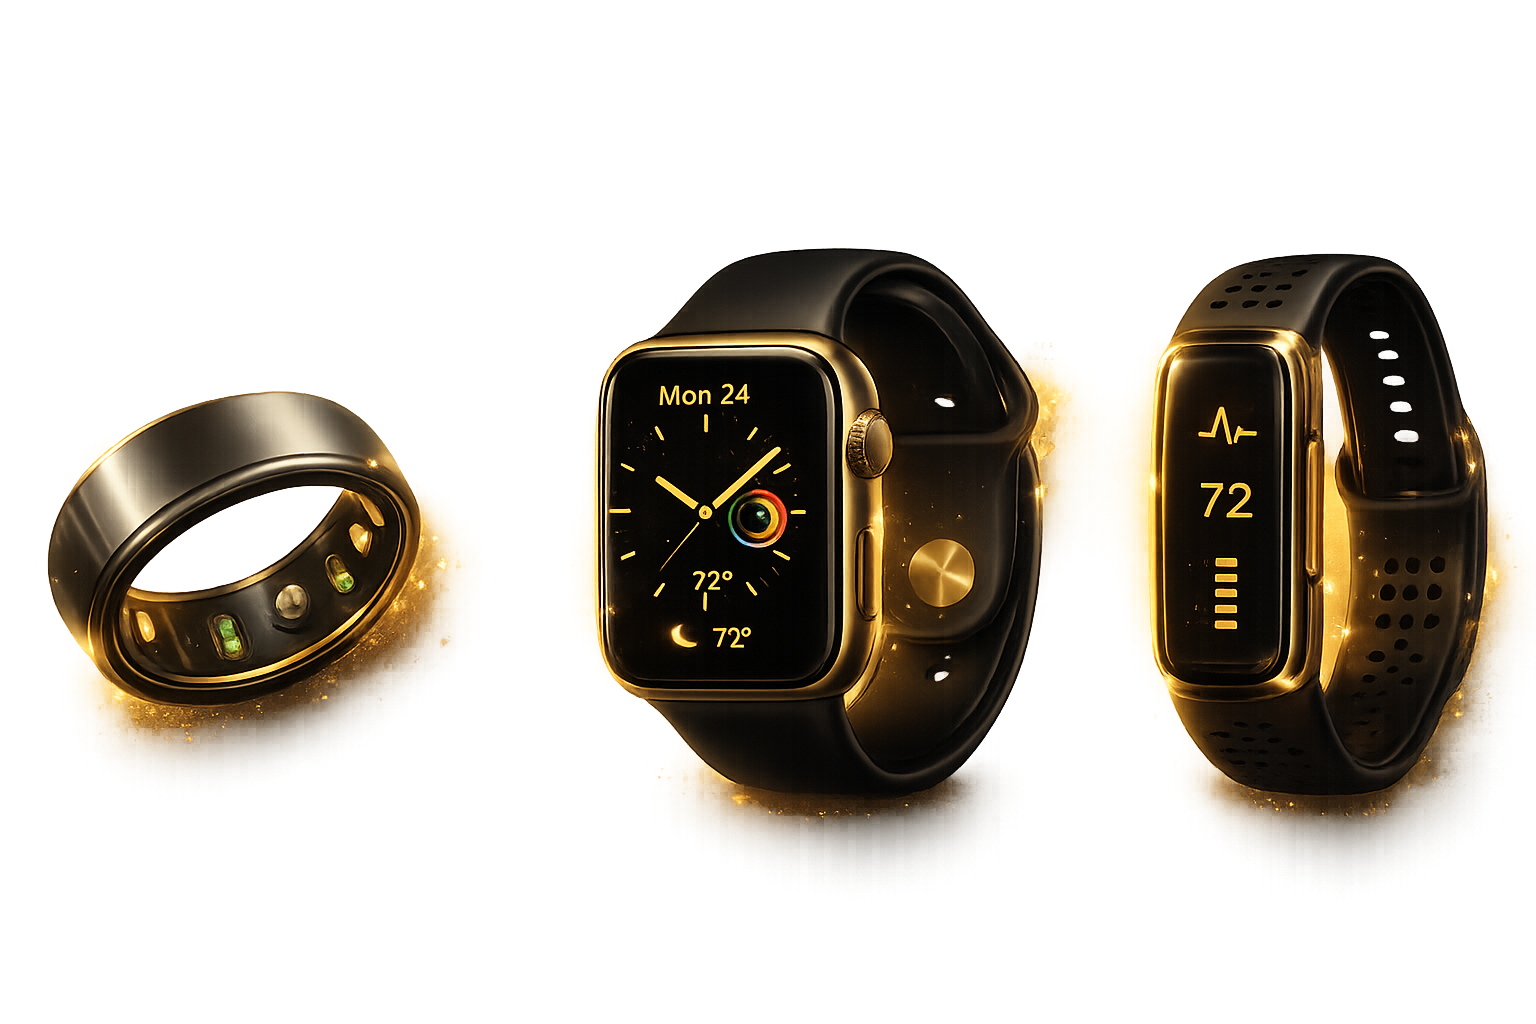
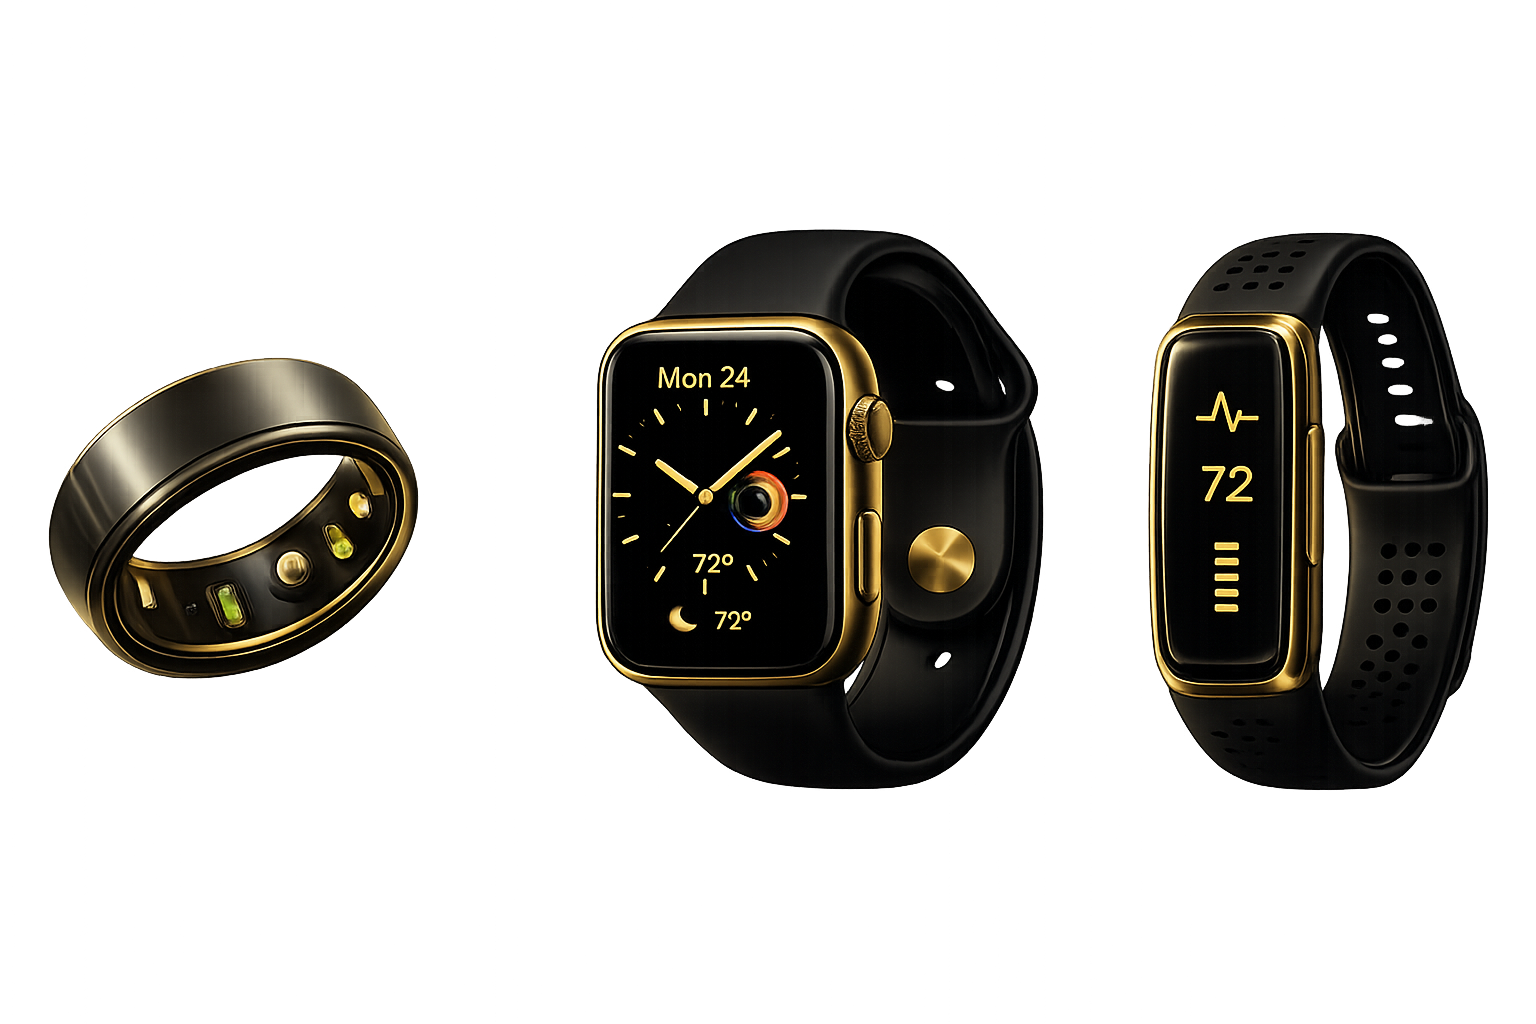
style(ip-landing): новый прозрачный auto.png; блоки VIO/PRO меньше; подзаголовки «Ручной ввод данных»/«Автоматический сбор данных»; «Без устройств» первым пунктом VIO

Changed region(s): [[0.375, 0.2188, 1.0, 0.8438], [0.0312, 0.3438, 0.3125, 0.75]]

diff --git a/interpreter/index.html b/interpreter/index.html
@@ -681,26 +681,29 @@ footer a:hover { color: var(--gold); }
 
 /* VIO vs PRO — выбор источника данных */
 .vp-section{padding:6px 0 52px;}
-.vp-stitle{text-align:center;font-family:'Oswald',sans-serif;font-weight:300;letter-spacing:3px;text-transform:uppercase;font-size:clamp(18px,3vw,24px);color:var(--t1);margin:0 0 30px;}
-.vp-grid{display:grid;grid-template-columns:1fr 1fr;gap:20px;max-width:920px;margin:0 auto;align-items:stretch;}
-.vp-card{display:flex;flex-direction:column;align-items:center;padding:28px 26px 30px;border-radius:22px;text-align:center;}
+.vp-stitle{text-align:center;font-family:'Oswald',sans-serif;font-weight:300;letter-spacing:3px;text-transform:uppercase;font-size:clamp(17px,2.6vw,22px);color:var(--t1);margin:0 0 24px;}
+.vp-grid{display:grid;grid-template-columns:1fr 1fr;gap:16px;max-width:800px;margin:0 auto;align-items:stretch;}
+.vp-card{display:flex;flex-direction:column;align-items:center;padding:22px 22px 24px;border-radius:20px;text-align:center;}
 .vp-vio{background:rgba(139,92,246,0.05);border:1px solid rgba(139,92,246,0.32);}
 .vp-pro{background:rgba(196,150,60,0.05);border:1px solid rgba(196,150,60,0.34);}
 .vp-eyebrow{font-family:'Oswald',sans-serif;font-size:12px;letter-spacing:4px;text-transform:uppercase;margin-bottom:6px;}
 .vp-vio .vp-eyebrow{color:#a78bfa;}
 .vp-pro .vp-eyebrow{color:var(--gold);}
-.vp-h{font-family:'Cormorant Garamond',serif;font-weight:600;font-size:clamp(24px,3.5vw,32px);line-height:1.15;margin:0 0 18px;}
+.vp-h{font-family:'Cormorant Garamond',serif;font-weight:600;font-size:clamp(21px,3vw,27px);line-height:1.15;margin:0 0 4px;}
 .vp-vio .vp-h{color:#a78bfa;}
 .vp-pro .vp-h{color:var(--gold-lt);}
-.vp-hero{height:170px;display:flex;align-items:center;justify-content:center;margin-bottom:22px;}
-.vp-hero img{max-height:170px;max-width:100%;object-fit:contain;}
+.vp-sub{font-size:12px;letter-spacing:.5px;margin-bottom:14px;opacity:.85;}
+.vp-vio .vp-sub{color:#a78bfa;}
+.vp-pro .vp-sub{color:var(--gold);}
+.vp-hero{height:120px;display:flex;align-items:center;justify-content:center;margin-bottom:16px;}
+.vp-hero img{max-height:120px;max-width:100%;object-fit:contain;}
 .vp-list{list-style:none;padding:0;margin:0;width:100%;text-align:left;}
-.vp-list li{display:flex;gap:13px;align-items:flex-start;padding:11px 0;font-size:15px;line-height:1.5;color:var(--t1);}
+.vp-list li{display:flex;gap:12px;align-items:flex-start;padding:8px 0;font-size:14px;line-height:1.45;color:var(--t1);}
 .vp-fi{flex-shrink:0;width:24px;height:24px;display:block;}
 .vp-fi svg{width:24px;height:24px;}
 .vp-vio .vp-fi{color:#a78bfa;}
 .vp-pro .vp-fi{color:var(--gold-lt);}
-@media(max-width:760px){.vp-grid{grid-template-columns:1fr;gap:14px;}.vp-hero{height:140px;}.vp-hero img{max-height:140px;}}
+@media(max-width:760px){.vp-grid{grid-template-columns:1fr;gap:12px;}.vp-hero{height:110px;}.vp-hero img{max-height:110px;}}
 </style>
 </head>
 <body>
@@ -807,8 +810,10 @@ footer a:hover { color: var(--gold); }
       <div class="vp-card vp-vio">
         <div class="vp-eyebrow">VIO</div>
         <h3 class="vp-h" data-t="vp_vio_h">По вашим ответам</h3>
+        <div class="vp-sub" data-t="vp_vio_sub">Ручной ввод данных</div>
         <div class="vp-hero"><img src="./images-in/vio.png" alt="VIO" loading="lazy"></div>
         <ul class="vp-list">
+          <li><span class="vp-fi"><svg viewBox="0 0 24 24" fill="none" stroke="currentColor" stroke-width="1.7" stroke-linecap="round"><circle cx="12" cy="12" r="9"/><line x1="5.6" y1="5.6" x2="18.4" y2="18.4"/></svg></span><span data-t="vp_vio_0">Без устройств</span></li>
           <li><span class="vp-fi"><svg viewBox="0 0 24 24" fill="none" stroke="currentColor" stroke-width="1.7" stroke-linecap="round"><circle cx="12" cy="12" r="9"/><path d="M9.3 9.4a2.7 2.7 0 1 1 3.6 2.6c-.7.3-1.2.9-1.2 1.8"/><circle cx="12" cy="17" r="0.6" fill="currentColor" stroke="none"/></svg></span><span data-t="vp_vio_1">Вы отвечаете на короткие вопросы.</span></li>
           <li><span class="vp-fi"><svg viewBox="0 0 24 24" fill="none" stroke="currentColor" stroke-width="1.7" stroke-linecap="round"><circle cx="12" cy="8" r="3.2"/><path d="M6 20c0-3.3 2.7-5.8 6-5.8s6 2.5 6 5.8"/></svg></span><span data-t="vp_vio_2">Система анализирует ваши ответы и текущее самочувствие.</span></li>
         </ul>
@@ -816,6 +821,7 @@ footer a:hover { color: var(--gold); }
       <div class="vp-card vp-pro">
         <div class="vp-eyebrow">PRO</div>
         <h3 class="vp-h" data-t="vp_pro_h">По данным устройств</h3>
+        <div class="vp-sub" data-t="vp_pro_sub">Автоматический сбор данных</div>
         <div class="vp-hero"><img src="./images-in/auto.png" alt="PRO" loading="lazy"></div>
         <ul class="vp-list">
           <li><span class="vp-fi"><svg viewBox="0 0 24 24" fill="none" stroke="currentColor" stroke-width="1.7" stroke-linecap="round" stroke-linejoin="round"><path d="M3.5 12a8.5 8.5 0 0 1 14.5-6M20.5 12a8.5 8.5 0 0 1-14.5 6"/><path d="M18 2.5V6h-3.5M6 21.5V18h3.5"/></svg></span><span data-t="vp_pro_1">Данные автоматически поступают с подключённых устройств</span></li>
@@ -1262,7 +1268,7 @@ const T = {
     hero_badge: 'Если данные есть — они должны приносить пользу',
     hero_h1: 'Мы не показываем данные — мы <em>объясняем</em>, что с вами происходит',
     hero_sub: 'И как адаптироваться к следующему этапу жизни. Показатели трекера и симптомы → понятное объяснение перемен и конкретные шаги.',
-    hero_oura: 'С трекером — данные подтянутся сами. Без трекера — короткие вопросы.',q_lead: 'Большинству не нужен график HRV за 180 дней — нужны ответы на три вопроса:',q1: 'Что со мной происходит?',q2: 'Почему это происходит?',q3: 'Что мне делать сегодня?',qa1_body: 'Ваш организм проходит период возрастной перестройки.<br><br>Изменения сна, энергии, настроения и восстановления могут быть связаны не только с нагрузкой или стрессом, но и с естественными гормональными изменениями, которые начинаются у женщин после 35+ и у мужчин после 40+.<br><br>Мы анализируем ваши данные и симптомы, чтобы понять, какие изменения происходят именно у вас.',qa2_body: 'Организм начинает работать по новым правилам.<br><br>То, что раньше проходило незаметно — недосып, стресс, перегрузка — теперь влияет сильнее.<br><br>Ваши показатели помогают определить, какие процессы сейчас оказывают наибольшее влияние:<br>— гормональная перестройка<br>— накопленный стресс<br>— нарушение восстановления<br>— изменения качества сна<br>— снижение адаптационных ресурсов организма<br><br>Мы ищем причины, а не просто показываем цифры.',qa3_body: 'Получите рекомендации, которые соответствуют вашему текущему состоянию.<br><br>Не универсальные советы из интернета, а персональные действия на основе ваших данных:<br>✓ как лучше восстановиться сегодня<br>✓ какая нагрузка будет полезна именно сейчас<br>✓ что поможет улучшить сон и энергию<br>✓ на что стоит обратить внимание в ближайшие дни<br><br>Маленькие правильные шаги помогают легче пройти период изменений и сохранить качество жизни.',qa_sell: 'Большинству людей не нужен график HRV за 180 дней.<br><br>Нужно понять, какие изменения происходят в организме, почему они происходят именно сейчас и как <span class="qa-hl">сохранить энергию, здоровье и качество жизни на следующем этапе</span>.',vp_pro_h: 'По данным устройств',vp_vio_h: 'По вашим ответам',vp_section_title: 'Выберите источник данных',vp_vio_1: 'Вы отвечаете на короткие вопросы.',vp_vio_2: 'Система анализирует ваши ответы и текущее самочувствие.',vp_vio_3: 'Короткие вопросы и самооценка',vp_pro_1: 'Данные автоматически поступают с подключённых устройств',vp_pro_2: 'Дополняются вашими ответами',vp_pro_3: 'Система анализирует биомаркеры и ваши ответы',vp_how_title: 'Как поступают данные?',vp_how_vio: '<b class="vh-vio">VIO</b> — вы отвечаете на вопросы, система анализирует ваши ответы.',vp_how_pro: '<b class="vh-pro">PRO</b> — данные автоматически поступают с подключённых устройств и дополняются вашими ответами.',
+    hero_oura: 'С трекером — данные подтянутся сами. Без трекера — короткие вопросы.',q_lead: 'Большинству не нужен график HRV за 180 дней — нужны ответы на три вопроса:',q1: 'Что со мной происходит?',q2: 'Почему это происходит?',q3: 'Что мне делать сегодня?',qa1_body: 'Ваш организм проходит период возрастной перестройки.<br><br>Изменения сна, энергии, настроения и восстановления могут быть связаны не только с нагрузкой или стрессом, но и с естественными гормональными изменениями, которые начинаются у женщин после 35+ и у мужчин после 40+.<br><br>Мы анализируем ваши данные и симптомы, чтобы понять, какие изменения происходят именно у вас.',qa2_body: 'Организм начинает работать по новым правилам.<br><br>То, что раньше проходило незаметно — недосып, стресс, перегрузка — теперь влияет сильнее.<br><br>Ваши показатели помогают определить, какие процессы сейчас оказывают наибольшее влияние:<br>— гормональная перестройка<br>— накопленный стресс<br>— нарушение восстановления<br>— изменения качества сна<br>— снижение адаптационных ресурсов организма<br><br>Мы ищем причины, а не просто показываем цифры.',qa3_body: 'Получите рекомендации, которые соответствуют вашему текущему состоянию.<br><br>Не универсальные советы из интернета, а персональные действия на основе ваших данных:<br>✓ как лучше восстановиться сегодня<br>✓ какая нагрузка будет полезна именно сейчас<br>✓ что поможет улучшить сон и энергию<br>✓ на что стоит обратить внимание в ближайшие дни<br><br>Маленькие правильные шаги помогают легче пройти период изменений и сохранить качество жизни.',qa_sell: 'Большинству людей не нужен график HRV за 180 дней.<br><br>Нужно понять, какие изменения происходят в организме, почему они происходят именно сейчас и как <span class="qa-hl">сохранить энергию, здоровье и качество жизни на следующем этапе</span>.',vp_vio_sub: 'Ручной ввод данных',vp_pro_sub: 'Автоматический сбор данных',vp_vio_0: 'Без устройств',vp_pro_h: 'По данным устройств',vp_vio_h: 'По вашим ответам',vp_section_title: 'Выберите источник данных',vp_vio_1: 'Вы отвечаете на короткие вопросы.',vp_vio_2: 'Система анализирует ваши ответы и текущее самочувствие.',vp_vio_3: 'Короткие вопросы и самооценка',vp_pro_1: 'Данные автоматически поступают с подключённых устройств',vp_pro_2: 'Дополняются вашими ответами',vp_pro_3: 'Система анализирует биомаркеры и ваши ответы',vp_how_title: 'Как поступают данные?',vp_how_vio: '<b class="vh-vio">VIO</b> — вы отвечаете на вопросы, система анализирует ваши ответы.',vp_how_pro: '<b class="vh-pro">PRO</b> — данные автоматически поступают с подключённых устройств и дополняются вашими ответами.',
     section_devices: 'Синхронизируем данные с ваших устройств',
     badge_best_dev: '★ Лучший',
     badge_good_dev: 'Хороший',
